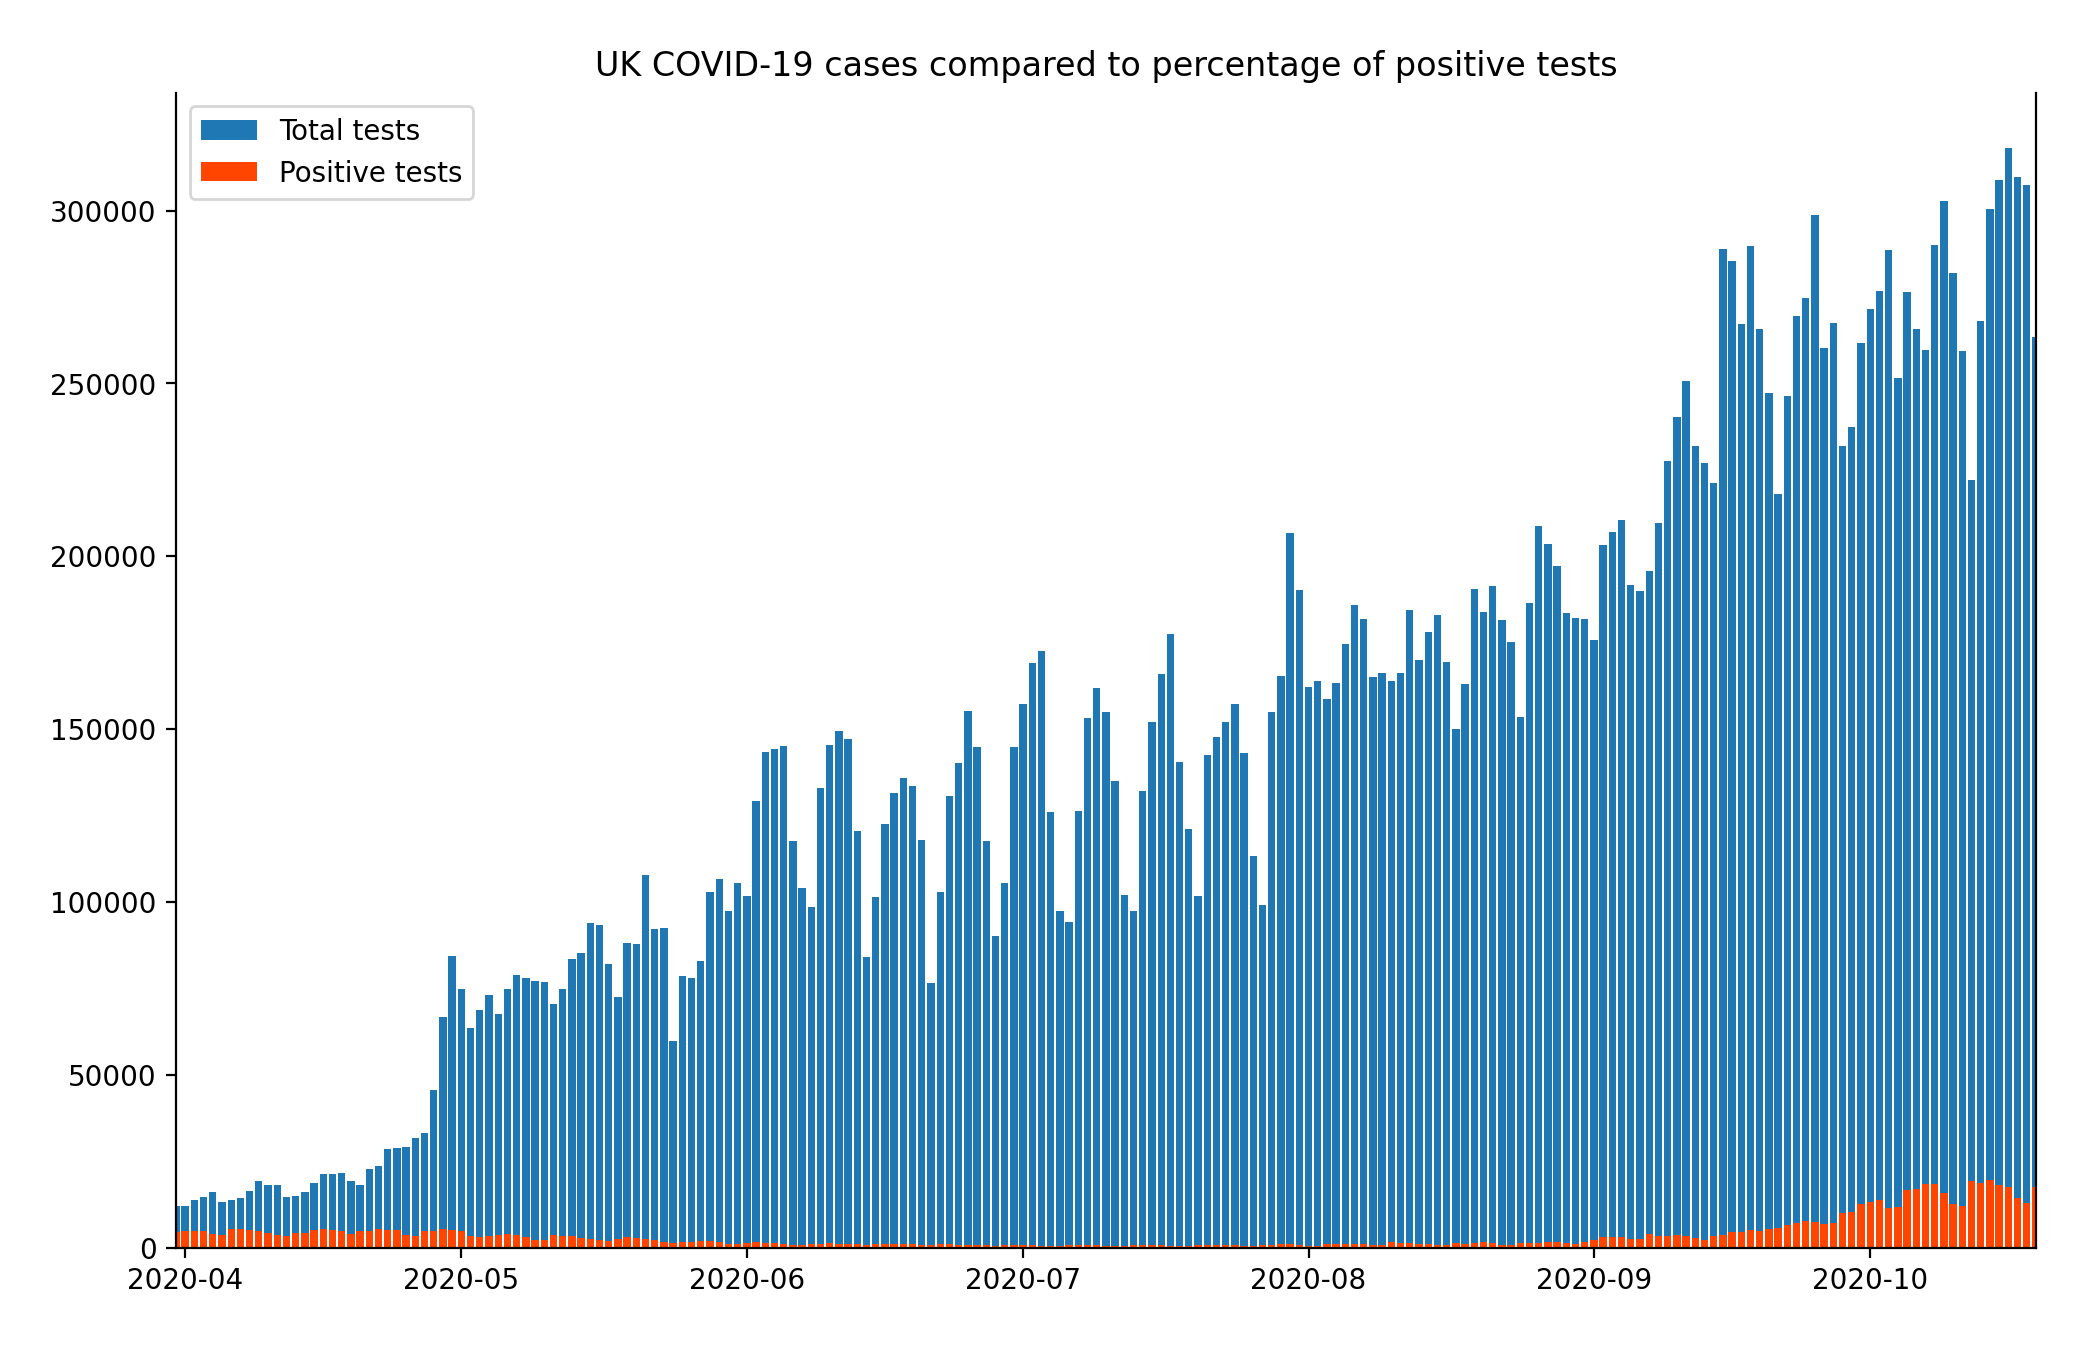
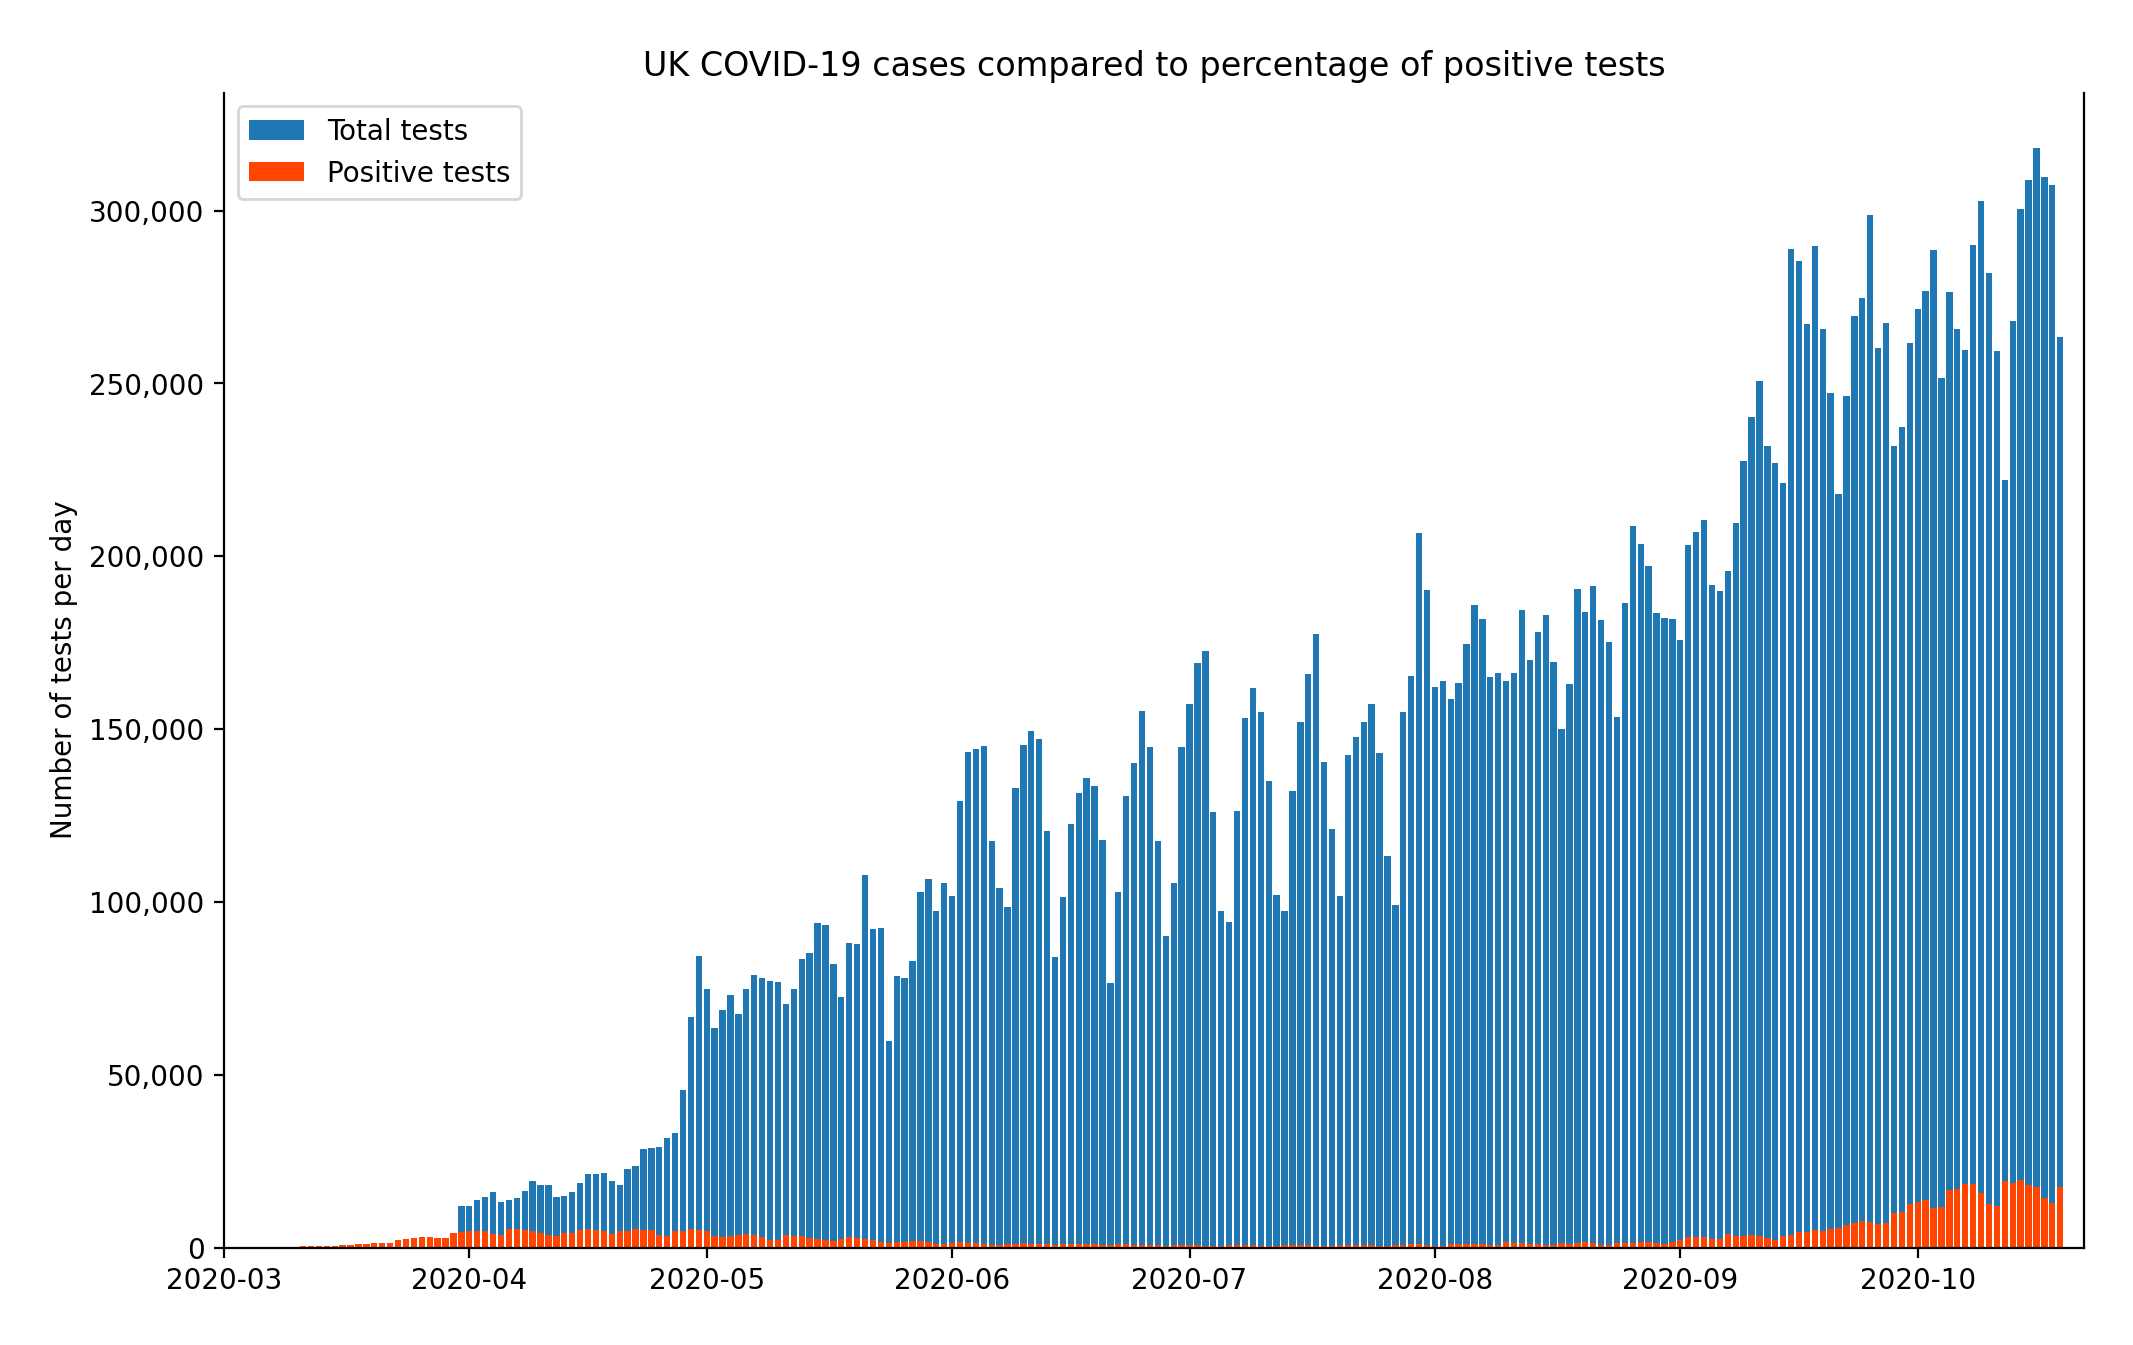
Improve axes

diff --git a/plot.py b/plot.py
@@ -116,18 +116,24 @@ def plot(avg=True):
     plt.figure()
     _, ax = plt.subplots()
 
-    ax.set_title("UK COVID-19 cases compared to percentage of positive tests")
+    ax.set_title("Number of tests vs positive tests")
 
     if avg:
         testTotal = n_day_avg(testTotal, 7)
     ax.bar(testDates, testTotal, color="C0", label="Total tests")
     ax.bar(casesDates, cases, color="orangered", label="Positive tests")
+    
     ax.xaxis_date()
-
     ax.set_xlim(
-        left=dt.strptime("2020-03-31", "%Y-%m-%d"),
-        right=dt.strptime("2020-10-19", "%Y-%m-%d"),
+        left=dt.strptime("2020-03-01", "%Y-%m-%d"),
+        right=dt.strptime("2020-10-22", "%Y-%m-%d"),
     )
+
+    yLabel = "Number of tests per day"
+    if avg:
+        yLabel += " (seven day average)"
+    ax.set_ylabel(yLabel)
+    ax.yaxis.set_major_formatter(tkr.FuncFormatter(threeFigureFormatter))
     
     plt.gcf().set_size_inches(12, 7.5)
     ax.spines["top"].set_visible(False)
